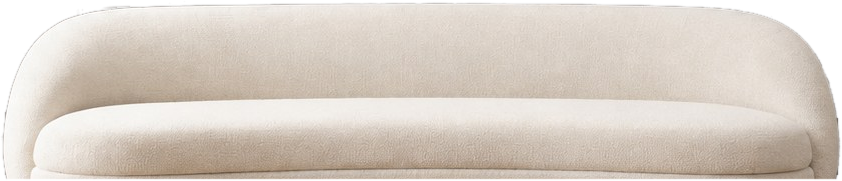
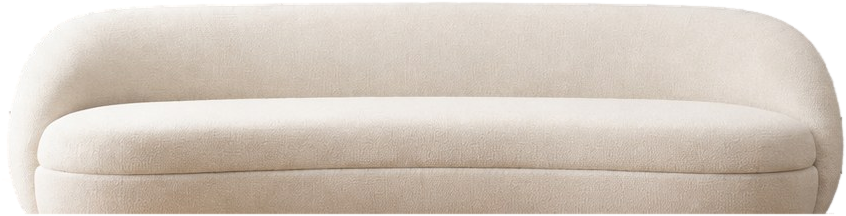
Панели на всю стену, одна текстура на зону
Клиент посмотрел демо и попросил другое: не вставки в выемки молдинга, а
облицовку всей стены. Плюс заметил, что текстура размножается плиткой и на
рисунчатых артикулах вроде YB-3038C сетка стыков читается насквозь.

Зоны. Три равные трети закрывают стену встык, от карниза до пола. Границы
замерены по кадру: карниз кончается на y=48 ровно по всей ширине, стык с
полом на y=767 (ниже теплота R-B прыгает с 14 до 55, это паркет). Рамки
рендера ушли ПОД текстуру, поэтому ретушь молдинга больше не нужна, модуль
frame_align удалён.

Плитка убрана: текстура садится одной панелью с обрезкой по краю, в CSS и на
холсте сохранения одинаково.

Две ловушки, которые всплыли от переноса зон на всю стену:
1. Канавки молдингов оказались ВНУТРИ зоны и отпечатались бы тёмными полосами
   через карту света. Слабое размытие их не берёт, сильное съедает контактную
   тень за диваном. Убраны адресно: медиана поперёк для вертикальных канавок,
   интерполяция между чистыми строками для горизонтальных планок.
2. Маска дивана с запасом в 6 px дотянулась до пола и утащила в передний слой
   полосу паркета. Граница поставлена ровно по низу стены.
   Заодно исправлен старый дефект: цвет полупрозрачной кромки дивана брался из
   фона, где под текстурой серая стена, и по контуру шла светлая кайма. Теперь
   на кромку растягивается цвет ближайшего непрозрачного пикселя дивана.

Тесты 12/12.

diff --git a/src/js/ui/SaveImage.js b/src/js/ui/SaveImage.js
@@ -29,15 +29,17 @@ export async function saveImage(scene, fg, model, opts) {
     const y = ry * H;
     const w = rw * W;
     const h = rh * H;
-    const across = scene.tilesAcross[item.series] || 2;
-    const side = w / across;
+    // Одна панель на зону, лишнее по краю обрезается. Повторять текстуру плиткой
+    // нельзя: на рисунчатых артикулах вроде YB-3038C сетка стыков читалась насквозь,
+    // и вместо образца материала посетитель видел плитку. То же правило в CSS зоны.
+    const scale = Math.max(w / tex.width, h / tex.height);
+    const dw = tex.width * scale;
+    const dh = tex.height * scale;
     ctx.save();
     ctx.beginPath();
     ctx.rect(x, y, w, h);
     ctx.clip();
-    for (let ty = 0; ty < h; ty += side) {
-      for (let tx = 0; tx < w; tx += side) ctx.drawImage(tex, x + tx, y + ty, side, side);
-    }
+    ctx.drawImage(tex, x + (w - dw) / 2, y + (h - dh) / 2, dw, dh);
     ctx.restore();
   }
 

diff --git a/src/js/main.browser.js b/src/js/main.browser.js
@@ -1,12 +1,12 @@
 // Точка входа: грузим конфиги, собираем модель, поднимаем сцену и меню.
-import { validateCatalog, findItem } from './core/CatalogLoader.js?v=20260804a';
-import { SceneModel } from './core/SceneModel.js?v=20260804a';
-import { encodeState, decodeState } from './core/ShareState.js?v=20260804a';
-import { Scene } from './ui/Scene.js?v=20260804a';
-import { PickerPanel } from './ui/PickerPanel.js?v=20260804a';
-import { saveImage } from './ui/SaveImage.js?v=20260804a';
+import { validateCatalog, findItem } from './core/CatalogLoader.js?v=20260804c';
+import { SceneModel } from './core/SceneModel.js?v=20260804c';
+import { encodeState, decodeState } from './core/ShareState.js?v=20260804c';
+import { Scene } from './ui/Scene.js?v=20260804c';
+import { PickerPanel } from './ui/PickerPanel.js?v=20260804c';
+import { saveImage } from './ui/SaveImage.js?v=20260804c';
 
-const V = '20260804a';
+const V = '20260804c';
 const asset = (p) => `assets/${p}?v=${V}`;
 const shell = document.querySelector('.viz');
 

diff --git a/src/css/viz.css b/src/css/viz.css
@@ -45,10 +45,13 @@
 .viz-scene:not([data-active=""]) .viz-zone:not(.is-active) { filter: brightness(.965) saturate(.97); }
 .viz-zone:hover { filter: brightness(1.02); }
 .viz-fill {
+  /* Текстура садится одной панелью на всю зону, лишнее обрезается по краю.
+     Плитки больше нет: клиент сравнивает материалы, а сетка стыков этому мешала. */
+  background-size: cover;
+  background-position: center;
+  background-repeat: no-repeat;
   position: absolute;
   inset: 0;
-  background-position: top left;
-  background-repeat: repeat;
   opacity: 0;
   /* Смена текстуры кроссфейдом: мгновенная подмена читается как сбой, долгая раздражает. */
   transition: opacity var(--t-base) var(--e);

diff --git a/index.html b/index.html
@@ -12,7 +12,7 @@
        уходят наверх сообщением, а на странице их принимает мост (deploy/tilda-embed.html).
        Если виджет встроен прямо в страницу, где счётчик уже есть, вызов идёт напрямую. -->
   <script>window.VIZ_METRIKA_ID = 109470426;</script>
-  <link rel="stylesheet" href="src/css/viz.css?v=20260804a" />
+  <link rel="stylesheet" href="src/css/viz.css?v=20260804c" />
 </head>
 <body>
   <div class="viz">
@@ -30,6 +30,6 @@
     <div id="viz-picker" class="viz-picker"></div>
   </div>
 
-  <script type="module" src="src/js/main.browser.js?v=20260804a"></script>
+  <script type="module" src="src/js/main.browser.js?v=20260804c"></script>
 </body>
 </html>

diff --git a/src/js/ui/Scene.js b/src/js/ui/Scene.js
@@ -62,10 +62,8 @@ export class Scene {
       const pair = this.tiles[z.id];
       // Тот же артикул второй раз не перекрашиваем: лишний кроссфейд читается как мигание.
       if (pair.code === code) continue;
-      const across = this.scene.tilesAcross[item.series] || 2;
       const next = pair.back;
       next.style.backgroundImage = `url("${this.opts.asset(`tex/${code}-w.jpg`)}")`;
-      next.style.backgroundSize = `${100 / across}% auto`;
       next.classList.add('is-on');
       pair.front.classList.remove('is-on');
       pair.back = pair.front;

diff --git a/tools/make-assets.py b/tools/make-assets.py
@@ -18,25 +18,24 @@ from pathlib import Path
 import numpy as np
 from PIL import Image, ImageFilter
 
-from frame_align import equalize_center_frame
-
 PUBLIC_KEY = "https://disk.yandex.ru/d/RG1uLymsyBig9g"
 ROOT = Path(__file__).resolve().parent.parent
 RAW = ROOT / "assets" / "_raw"
 SCENE = ROOT / "assets" / "scene"
 TEX = ROOT / "assets" / "tex"
 
-# Геометрия рендера 1672x941. Замерена по перепадам яркости и проверена по срезам:
-# канавки молдингов остаются ЗА пределами прямоугольников, поэтому рамки панелей
-# видны поверх текстуры сами собой, без отдельного слоя.
+# Геометрия рендера 1672x941.
+# Клиент попросил облицевать стену целиком: панели идут по всей длине, а не лежат
+# внутри выемок молдинга. Поэтому три равные зоны встык закрывают стену от карниза
+# до пола, а рамки исходного рендера уходят ПОД текстуру и в кадре не участвуют.
+# Границы стены замерены по кадру: карниз кончается на y=47..48 ровно по всей ширине,
+# стык с полом на y=767 (ниже теплота R-B прыгает с 14 до 55, это паркет).
 SCENE_W, SCENE_H = 1672, 941
-# Клиент попросил равные зоны. Рамки на исходном рендере равными не были (внутренние
-# поля 462, 592, 464), поэтому центральный молдинг сдвинут внутрь модулем frame_align,
-# и все три поля стали 462 px. Правая зона обрезана на 2 px до той же ширины.
+WALL_TOP, WALL_BOTTOM = 48, 767
 ZONES = {
-    "left": (30, 82, 492, 725),
-    "center": (593, 82, 1055, 725),
-    "right": (1162, 82, 1624, 725),
+    "left": (0, WALL_TOP, round(SCENE_W / 3), WALL_BOTTOM),
+    "center": (round(SCENE_W / 3), WALL_TOP, round(2 * SCENE_W / 3), WALL_BOTTOM),
+    "right": (round(2 * SCENE_W / 3), WALL_TOP, SCENE_W, WALL_BOTTOM),
 }
 ZONE_TITLES = {"left": "Левая", "center": "Центральная", "right": "Правая"}
 
@@ -102,12 +101,11 @@ def build_scene():
     SCENE.mkdir(parents=True, exist_ok=True)
     src = Image.open(RAW / "IMG_0037.png").convert("RGB")
     assert src.size == (SCENE_W, SCENE_H), f"неожиданный размер рендера: {src.size}"
-    src = equalize_center_frame(src)
     src.save(SCENE / "bg.jpg", "JPEG", quality=88, optimize=True)
 
     arr = np.asarray(src).astype(np.float32)
     lum = arr.mean(axis=2)
-    y0, y1 = 82, 725
+    y0, y1 = WALL_TOP, WALL_BOTTOM
 
     # Диван. Порог по яркости в одиночку не работает: затенённые места дивана темнее
     # порога, маска рвётся и сквозь неё проступает текстура. Поэтому порог + заливка
@@ -117,7 +115,10 @@ def build_scene():
     # (R-B около 66) и попадает в маску, утаскивая её на пол. Ниже панелей передний слой
     # не нужен вовсе: там текстуры нет и виден исходный фон.
     band = np.zeros(lum.shape, bool)
-    band[520:y1 + 6, 360:1310] = True
+    # Нижняя граница строго по низу стены. Раньше был запас в 6 px, и он был безвреден,
+    # пока стена кончалась выше пола. Теперь низ зоны совпадает со стыком, и запас
+    # затаскивал в маску полосу тёплого паркета через всю ширину кадра.
+    band[520:y1, 360:1310] = True
     # Признак дивана: не яркость, а теплота цвета. Замер по кадру: у серой стены R-B
     # держится в диапазоне 9..11 по всей площади панелей, у обивки дивана медиана 24.
     # По яркости они пересекаются (низ дивана 124 против стены 110), по теплоте нет.
@@ -164,6 +165,21 @@ def build_scene():
     ys, xs = np.where(sofa)
     filled[ys, xs] = per_col[xs]
 
+    # Канавки молдингов теперь ВНУТРИ облицованной зоны, и раньше они просто не попадали
+    # в кадр. Слабое размытие отпечатало бы их тёмными полосами прямо по текстуре, а
+    # сильное съело бы контактную тень за диваном. Поэтому убираем их адресно.
+    # Вертикальные канавки (ширина до 28 px) уводит медиана ПОПЕРЁК: окно шире полосы,
+    # поэтому линия уходит, а перепад света вдоль стены и тень за диваном остаются.
+    filled = ndimage.median_filter(filled, size=(1, 71), mode="nearest")
+    # Горизонтальные планки рамок медиана поперёк не берёт: они лежат вдоль окна.
+    # Стираем их интерполяцией между чистыми строками над и под планкой.
+    for ry0, ry1 in ((62, 88), (712, 733)):
+        top = filled[ry0 - 8:ry0].mean(axis=0)
+        bot = filled[ry1:ry1 + 8].mean(axis=0)
+        for i in range(ry1 - ry0):
+            t = (i + 1) / (ry1 - ry0 + 1)
+            filled[ry0 + i] = top * (1 - t) + bot * t
+
     light = Image.fromarray(np.clip(filled, 0, 255).astype(np.uint8), "L")
     # Размытие слабое: сильное съедало контактную тень за диваном, а она нужна ЗДЕСЬ,
     # в множительном слое. Стена ровная, поэтому собственного шума она сюда не приносит.
@@ -209,7 +225,15 @@ def build_scene():
     # RGB переднего слоя берём из уже пересжатого bg.jpg, а не из оригинала: иначе на
     # полупрозрачных краях накладываются пиксели двух разных кодировок и виден габарит.
     base = np.asarray(Image.open(SCENE / "bg.jpg").convert("RGB"))
-    fg = np.dstack([base, m]).astype(np.uint8)[by0:by1, bx0:bx1]
+    # На полупрозрачной кромке цвет нельзя брать из фона: под текстурой там серая стена,
+    # и вместо ворса букле по контуру дивана шла светлая кайма. Особенно заметно теперь,
+    # когда тёмная текстура доходит до самого дивана. Поэтому на кромку растягиваем цвет
+    # ближайшего непрозрачного пикселя самого дивана: край смешивается уже с текстурой.
+    core_rgb = m >= 250
+    nearest = ndimage.distance_transform_edt(~core_rgb, return_distances=False, return_indices=True)
+    filled_rgb = base[nearest[0], nearest[1]]
+    rgb = np.where(core_rgb[..., None], base, filled_rgb)
+    fg = np.dstack([rgb, m]).astype(np.uint8)[by0:by1, bx0:bx1]
     Image.fromarray(fg, "RGBA").save(SCENE / "fg.png", optimize=True)
     (SCENE / "fg.json").write_text(json.dumps(
         {"rect": [bx0 / SCENE_W, by0 / SCENE_H,
